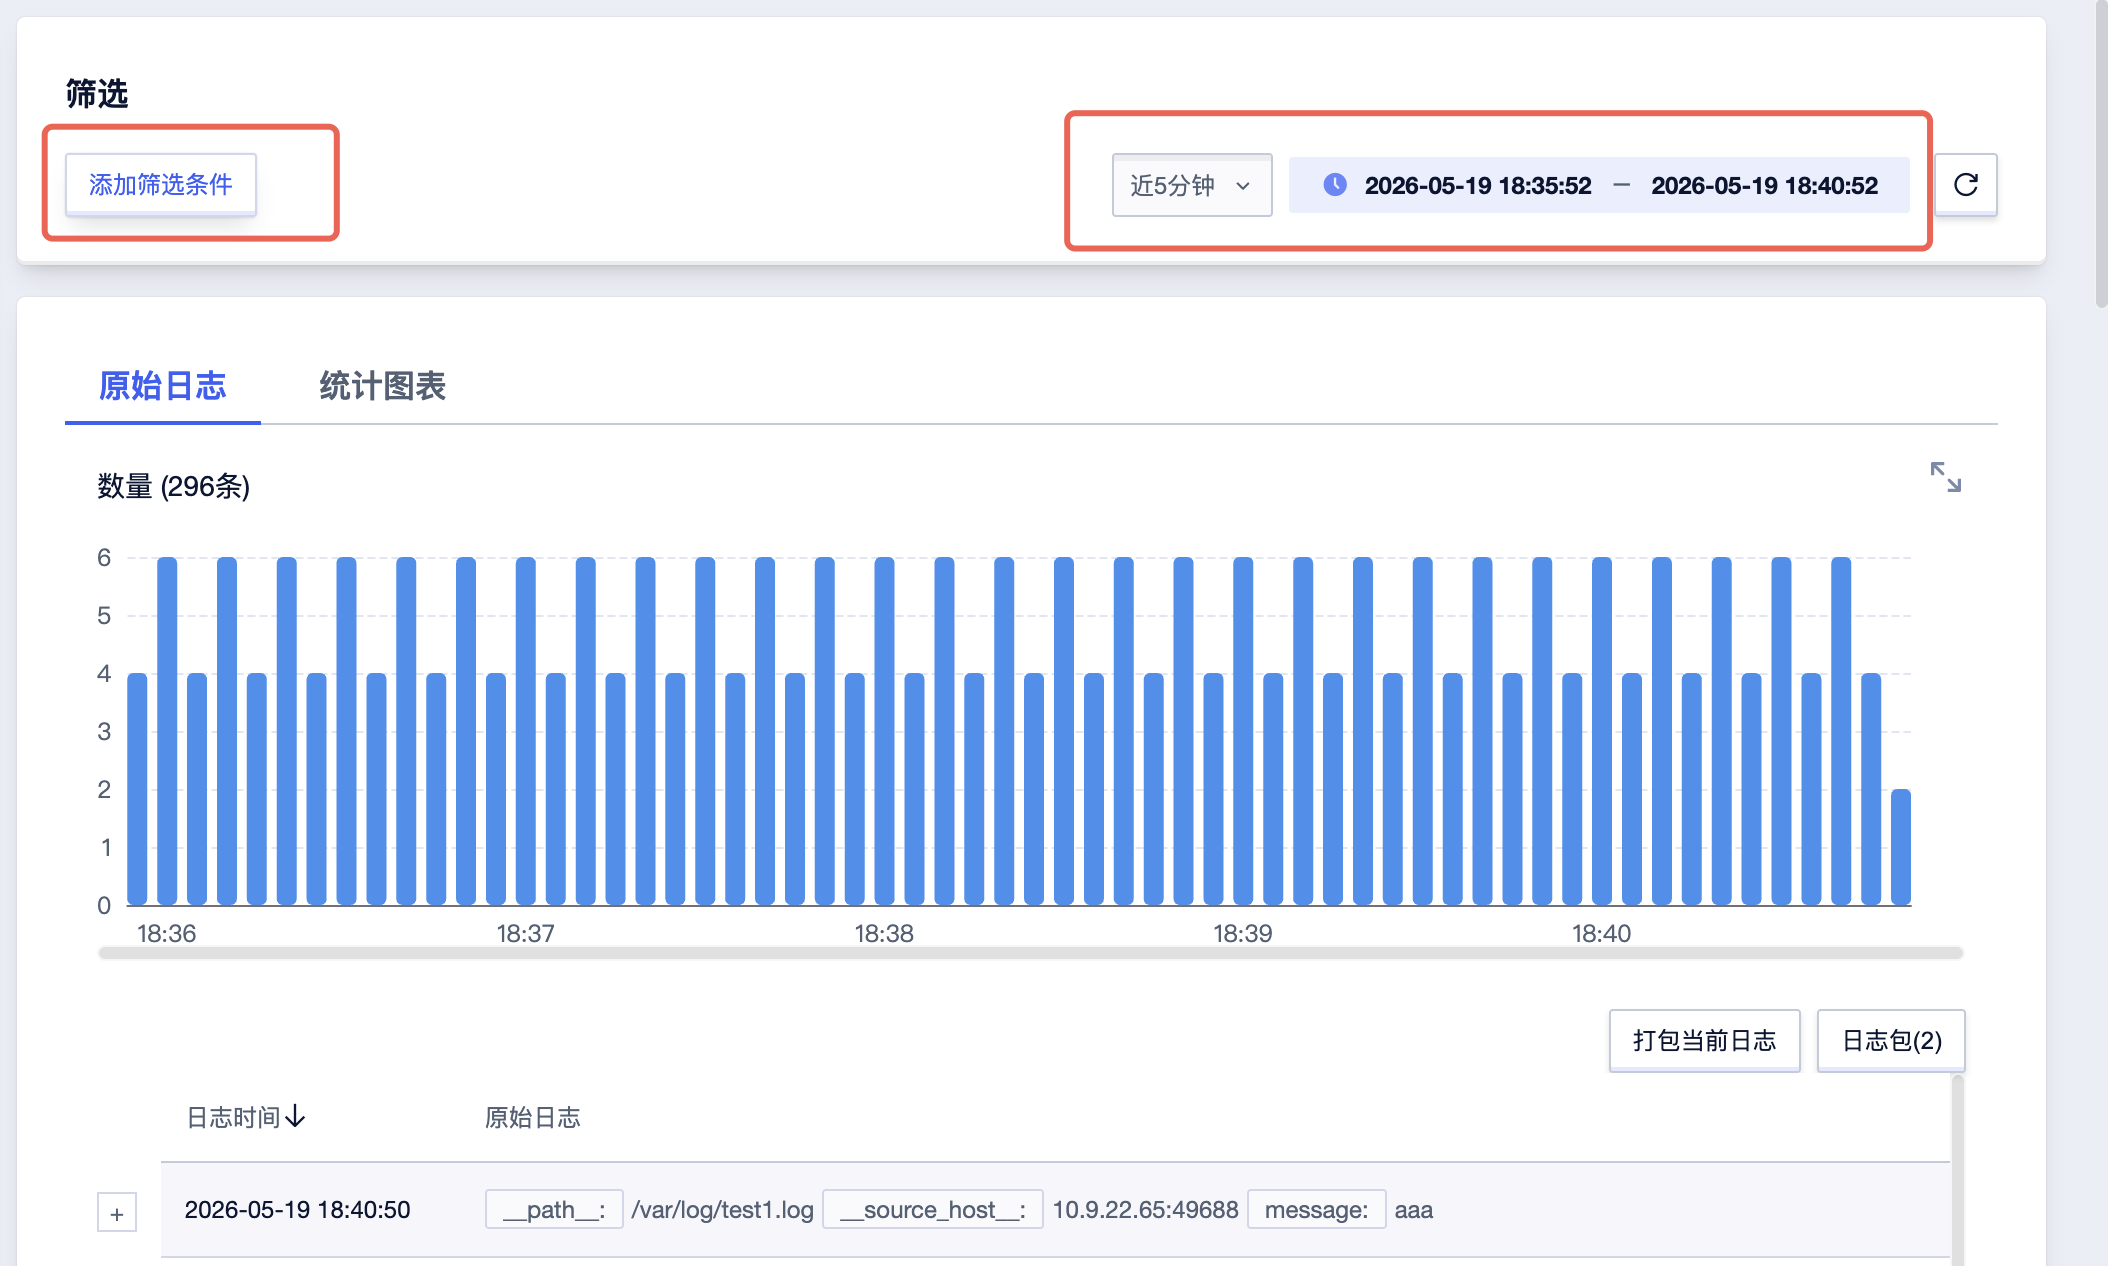
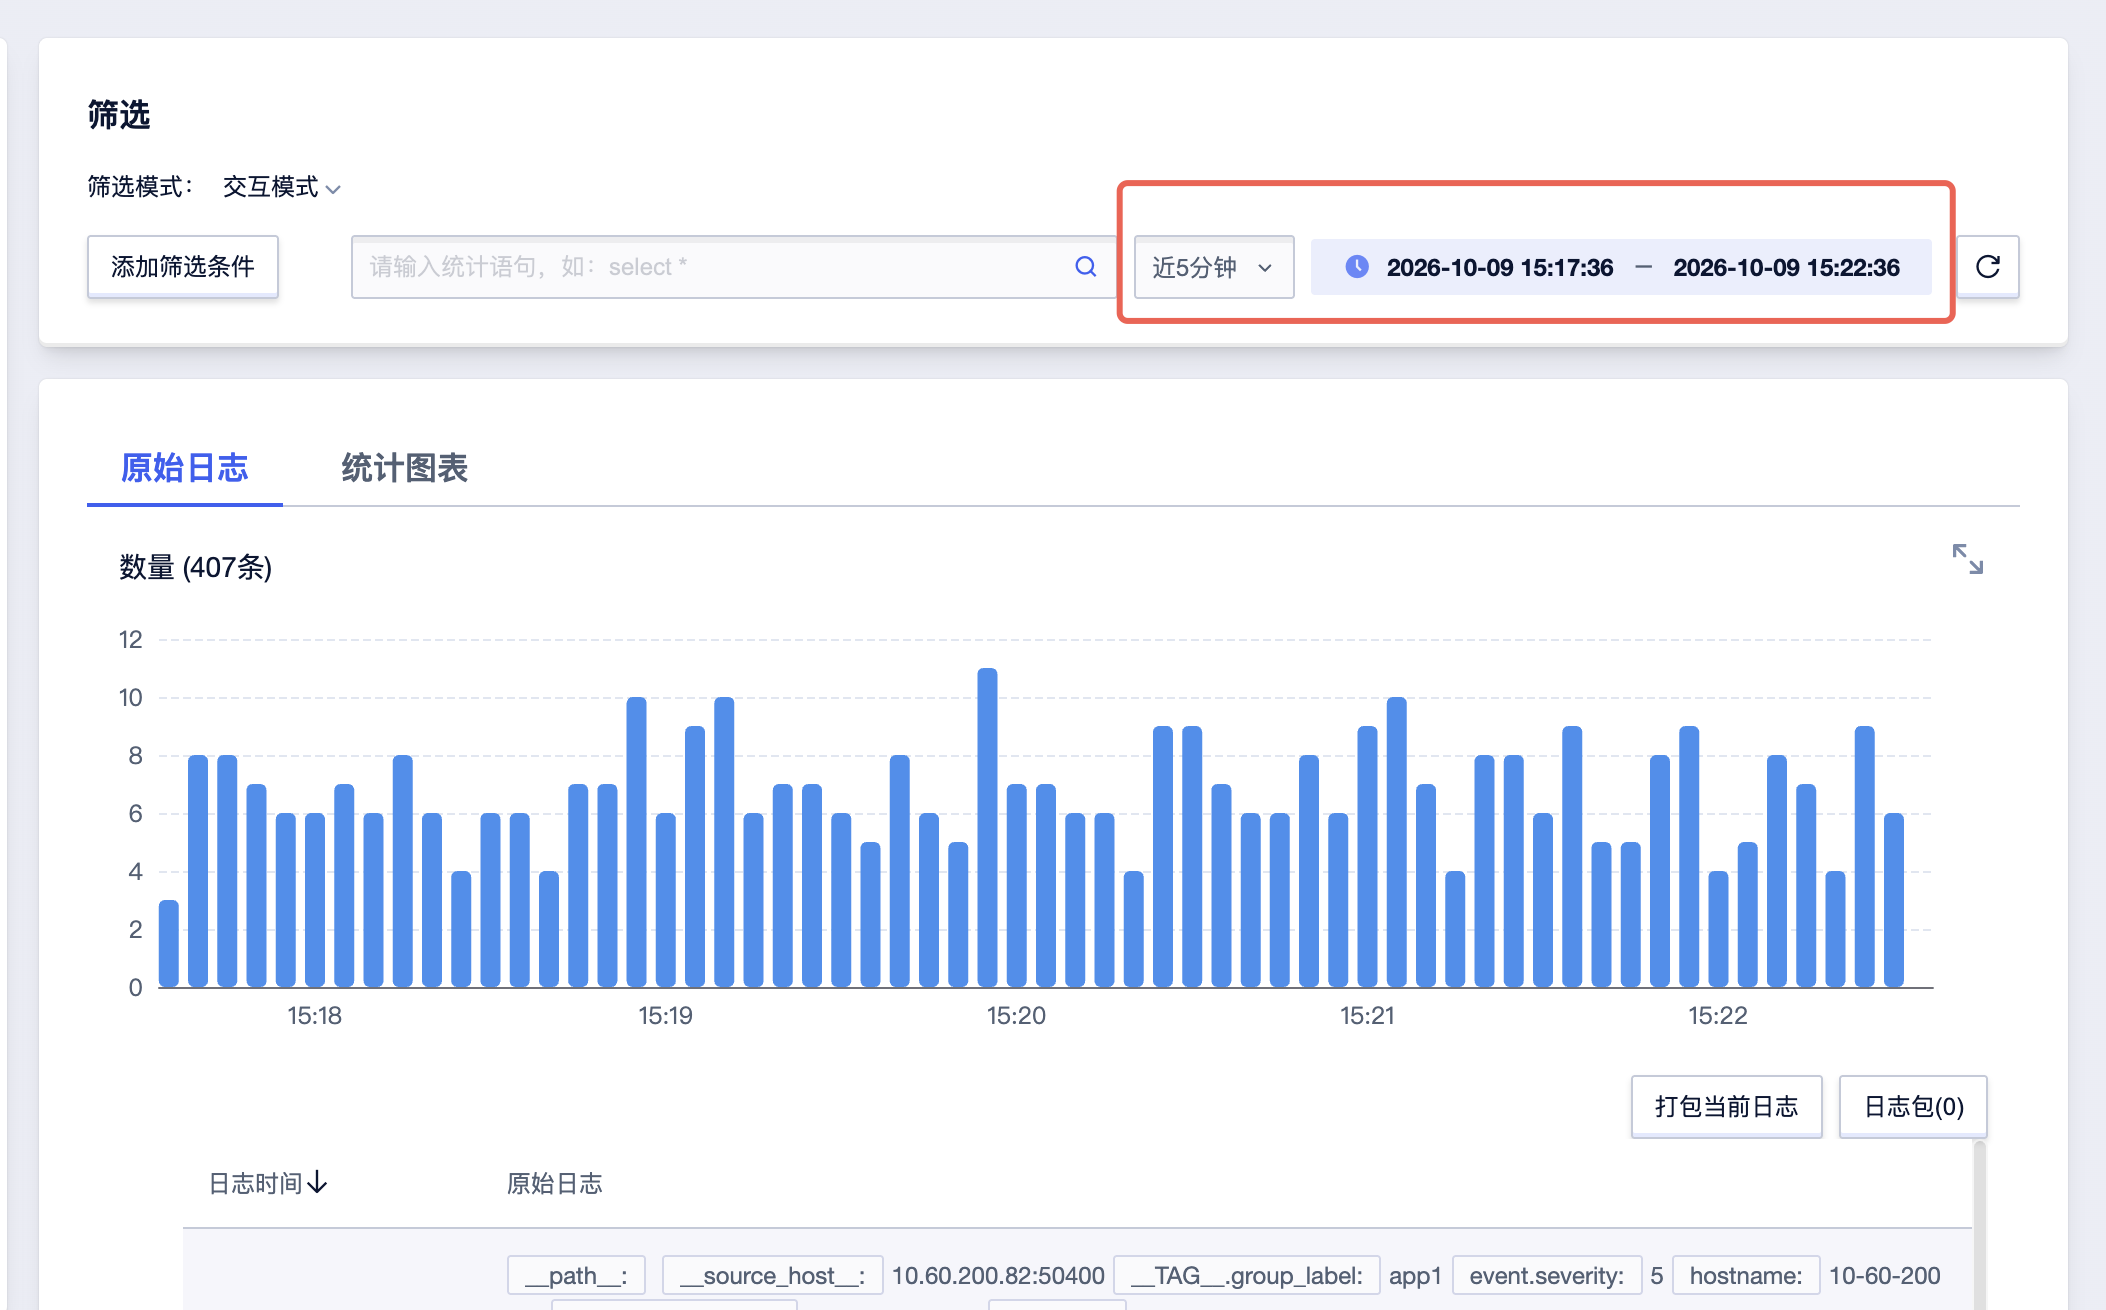
add es dsl doc

Changed region(s): [[0.0, 0.0, 1.0, 1.0]]

diff --git a/operate/elasticsearch_interface.md b/operate/elasticsearch_interface.md
@@ -1,0 +1,241 @@
+# 兼容 Elasticsearch 接口
+
+## 操作场景
+
+日志服务（ULogService）兼容 Elasticsearch 的部分接口，其兼容能力基于 Elasticsearch 7.10 实现，支持 **7.x 及以下版本**（客户端版本 ≤ 7.x）的 Elasticsearch 客户端接入。如果您已有的日志采集、检索或可视化程序是基于 Elasticsearch 构建的，无需改造代码，只需将请求地址指向日志服务的兼容接口，即可直接查询日志服务中已上报的日志，从而降低日志系统迁移的成本。
+
+## 前提条件
+
+使用兼容接口前，请确认：
+
+1. 日志主题（Topic）已创建，且日志已正常上报，详情请参阅 [日志主题](/ulogservice/resource/topic)。
+2. **需要查询的字段已开启索引**。未开启索引的字段无法通过兼容接口检索，索引配置方法请参阅 [日志主题 > 修改索引配置](/ulogservice/resource/topic)。
+3. 使用聚合或排序时，对应字段需在索引配置中额外开启统计。
+
+> **说明**：
+> - 使用 `term`、`terms`、`match_phrase`、`range` 等查询 DSL 时，目标字段必须已开启索引。
+> - 使用聚合（桶聚合、指标聚合）或通过 `sort` 排序时，目标字段必须已开启索引，且已开启统计。
+
+## 访问地址
+
+日志服务的兼容接口通过各 [地域](/ulogservice/region_domain_name) 的内网域名提供，请求路径统一以 `/elasticsearch/` 开头：
+
+```
+https://internal.<region>.uls.ucloud.cn/elasticsearch/
+```
+
+其中 `<region>` 为地域简称，例如 `cn-bj2`、`cn-sh2`、`cn-wlcb` 等，地域简称列表请参阅 [地域和访问域名](/ulogservice/region_domain_name)。
+
+> **注意**：请求地址中的地域必须与日志主题所在地域保持一致，跨地域无法查询。
+
+## 鉴权方式
+
+兼容接口采用 HTTP Basic Auth 鉴权，使用 UCloud 账号（或子账号）的 API 密钥：
+
+| 参数 | 说明 |
+| -- | -- |
+| 用户名 | API 密钥的**公钥**（PublicKey） |
+| 密码 | API 密钥的**私钥**（PrivateKey） |
+
+API 密钥可在 [UCloud 控制台 > 账号管理 > API 密钥](https://console.ucloud.cn/uaccount/api_manage) 中获取。
+
+> **建议**：为兼容接口单独创建子账号，并仅授予其日志检索权限（`QueryULogServiceLog` 操作），避免使用主账号密钥带来的安全风险。
+
+## 支持的接口
+
+| 接口 | 说明 |
+| -- | -- |
+| `GET /<topic_id>/_search` | 检索日志，查询条件通过 URL Query 参数传递 |
+| `POST /<topic_id>/_search` | 检索日志，查询条件通过请求体传递 |
+
+路径中的 `<topic_id>` 为日志主题 ID，在兼容接口中扮演 Elasticsearch 中索引（Index）的角色，可在 [日志主题列表](https://console.ucloud.cn/ulogservice/topic) 中获取。
+
+> **说明**：请求头需设置 `Content-Type: application/json`；兼容接口使用查询 DSL 时，仍以日志主题为单位查询，不支持 Elasticsearch 中多索引、别名等概念。
+
+## 兼容的 DSL
+
+### 时间字段
+
+Elasticsearch 中使用 `@timestamp` 表示日志时间，日志服务中对应的系统保留字段为 **`__timestamp__`**。按时间范围过滤日志时，请使用 `range` 查询作用于 `__timestamp__` 字段，时间值为**毫秒级 Unix 时间戳**。
+
+```json
+{
+  "range": {
+    "__timestamp__": {
+      "gte": 1774923995000,
+      "lte": 1774924895000
+    }
+  }
+}
+```
+
+### 查询 DSL
+
+以下查询条件可用于 `query` 中，均要求目标字段已开启索引：
+
+| 查询类型 | 说明 |
+| -- | -- |
+| `term` | 精确匹配单个值 |
+| `terms` | 精确匹配多个值中的任意一个 |
+| `match` | 匹配指定值 |
+| `match_phrase` | 短语匹配 |
+| `multi_match` | 在多个字段上匹配，支持 `best_fields` 等类型及 `lenient` 参数 |
+| `range` | 范围匹配，常用于 `__timestamp__` 时间范围过滤 |
+| `bool` | 组合条件，支持 `must`、`filter`、`should`、`must_not` |
+
+### 聚合 DSL
+
+聚合 DSL 分为**桶聚合**和**指标聚合**两类：桶聚合用于按字段值分组，指标聚合用于对分组内（或不分组时对整体）的数值字段做统计计算。
+
+#### 桶聚合
+
+| 聚合类型 | 说明 |
+| -- | -- |
+| `terms` | 按字段值分组统计，要求字段已开启索引**并开启统计**，支持 `size`、`min_doc_count` 等参数 |
+
+#### 指标聚合
+
+| 聚合类型 | 说明 |
+| -- | -- |
+| `min` | 统计最小值 |
+| `max` | 统计最大值 |
+| `avg` | 统计平均值 |
+| `sum` | 统计总和 |
+| `count` | 统计总数 |
+| `cardinality` | 统计不重复的数据总数（去重计数） |
+| `percentiles` | 统计百分位，支持 `percents`、`keyed` 等参数；`percents` 默认为 `[1, 5, 25, 50, 75, 95, 99]` |
+
+> **说明**：
+> - 指标聚合作用的字段需已开启索引**并开启统计**，否则无法返回预期结果。
+> - 聚合结果与 Elasticsearch 一致，通过响应体的 `aggregations` 字段返回。
+
+### 通用参数
+
+| 参数 | 类型 | 说明 |
+| -- | -- | -- |
+| `from` | int | 分页起始位置，默认 0 |
+| `size` | int | 返回日志条数，默认 100，最大 10000 |
+| `sort` | object/array | 排序规则，排序字段需已开启索引**并开启统计** |
+| `track_total_hits` | bool | 是否返回命中的日志总条数，取值为 `true` 时响应体的 `hits.total.value` 为精确值 |
+
+## 使用示例
+
+以下示例中的 `<region>`、`<topic_id>`、`<public_key>`、`<private_key>` 请替换为实际值。
+
+### 示例 1：条件查询
+
+查询北京时间 `2026-03-31 10:26:35` 至 `2026-03-31 10:41:35` 之间、请求方法为 `GET` 的日志，返回前 10 条并统计总条数：
+
+```bash
+curl -u "<public_key>:<private_key>" \
+  -X POST "https://internal.<region>.uls.ucloud.cn/elasticsearch/<topic_id>/_search" \
+  -H 'Content-Type: application/json' \
+  -d '{
+    "track_total_hits": true,
+    "size": 10,
+    "query": {
+      "bool": {
+        "filter": [
+          { "match": { "reqMethod": "GET" } },
+          {
+            "range": {
+              "__timestamp__": {
+                "gte": 1774923995000,
+                "lte": 1774924895000
+              }
+            }
+          }
+        ]
+      }
+    }
+  }'
+```
+
+### 示例 2：全文检索 + 聚合分析
+
+在上述时间范围内全文检索关键字 `USER`，并按 HTTP 状态码分组统计各状态码的日志数量：
+
+```bash
+curl -u "<public_key>:<private_key>" \
+  -X POST "https://internal.<region>.uls.ucloud.cn/elasticsearch/<topic_id>/_search" \
+  -H 'Content-Type: application/json' \
+  -d '{
+    "size": 0,
+    "query": {
+      "bool": {
+        "filter": [
+          {
+            "multi_match": {
+              "query": "USER",
+              "type": "best_fields",
+              "lenient": true
+            }
+          },
+          {
+            "range": {
+              "__timestamp__": {
+                "gte": 1774923995000,
+                "lte": 1774924895000
+              }
+            }
+          }
+        ]
+      }
+    },
+    "aggs": {
+      "http_code_distribution": {
+        "terms": {
+          "field": "resHttpCode",
+          "size": 100,
+          "min_doc_count": 1
+        }
+      }
+    }
+  }'
+```
+
+响应结果的 `aggregations.http_code_distribution.buckets` 中即为各状态码及其对应的日志条数。
+
+### 示例 3：分位数统计
+
+统计上述时间范围内请求响应时间（`response_time`）的 P50、P90、P95、P99 分位数：
+
+```bash
+curl -u "<public_key>:<private_key>" \
+  -X POST "https://internal.<region>.uls.ucloud.cn/elasticsearch/<topic_id>/_search" \
+  -H 'Content-Type: application/json' \
+  -d '{
+    "size": 0,
+    "query": {
+      "bool": {
+        "filter": [
+          {
+            "range": {
+              "__timestamp__": {
+                "gte": 1774923995000,
+                "lte": 1774924895000
+              }
+            }
+          }
+        ]
+      }
+    },
+    "aggs": {
+      "response_time_percentiles": {
+        "percentiles": {
+          "field": "response_time",
+          "percents": [50, 90, 95, 99]
+        }
+      }
+    }
+  }'
+```
+
+响应结果的 `aggregations.response_time_percentiles.values` 中即为各分位数及其对应的响应时间值，例如 `{"50.0": 12, "90.0": 58, "95.0": 132, "99.0": 476}`。
+
+## 注意事项
+
+- 兼容接口仅覆盖 Elasticsearch 的部分能力，写入类接口（如 `_bulk`、`_index`）、索引管理类接口（如 `_mapping`、`_cat`）均不支持，日志写入请使用 [HTTP 协议上报日志](/ulogservice/operate/http) 或 LogAgent 采集。
+- 时间过滤必须使用 `__timestamp__` 字段，直接使用 `@timestamp` 无法命中日志。
+- 未开启索引的字段无法检索；需要聚合或排序的字段还需开启统计，否则查询将无法返回预期结果。
+- 单次查询返回的日志条数由 `size` 控制，**最大为 10000**，超出该值的部分需通过 `from`、`size` 分页获取，或收窄查询时间范围。

diff --git a/README.md b/README.md
@@ -40,6 +40,7 @@
         * [JSON函数](/ulogservice/operate/analysis_func/json)
         * [类型转换函数](/ulogservice/operate/analysis_func/type_conversion)
         * [数学计算函数](/ulogservice/operate/analysis_func/math)
+    * [兼容 Elasticsearch 接口](/ulogservice/operate/elasticsearch_interface)
   * 告警
     * [告警概述](/ulogservice/operate/alarm/overview)
     * 告警策略

diff --git a/_sidebar.md b/_sidebar.md
@@ -43,6 +43,7 @@
         * [JSON函数](/ulogservice/operate/analysis_func/json)
         * [类型转换函数](/ulogservice/operate/analysis_func/type_conversion)
         * [数学计算函数](/ulogservice/operate/analysis_func/math)
+    * [兼容 Elasticsearch 接口](/ulogservice/operate/elasticsearch_interface)
   * 告警
     * [告警概述](/ulogservice/operate/alarm/overview)
     * 告警策略
